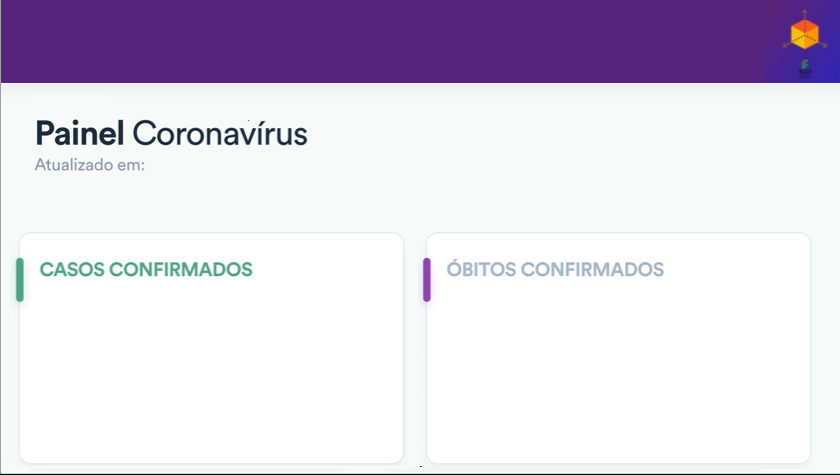
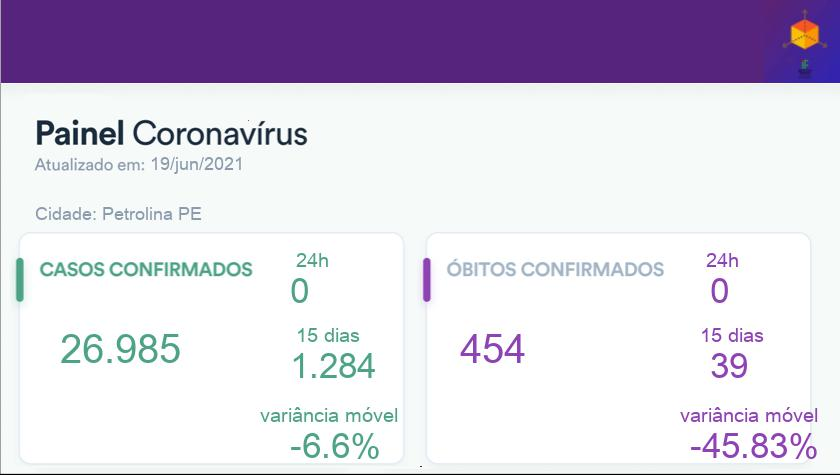
deixando a API arrumadinha

diff --git a/setup.py b/setup.py
@@ -1,0 +1,18 @@
+from setuptools import setup
+from setuptools import find_packages, setup
+
+with open("README.md", "r") as fh:
+    readme = fh.read()
+
+setup(name='covidbr',
+    version='0.0.1401',
+    url='https://github.com/gpftc/covid_br',
+    license='MIT License',
+    author='Reinan Br',
+    long_description=readme,
+    long_description_content_type="text/markdown",
+    author_email='slimchatuba@gmail.com',
+    keywords='covid-19 covid api data science',
+    description=u'Library for data mining about covid-19 in brazilian cities',
+    packages=find_packages(),
+    install_requires=['numpy','matplotlib','pillow','mechanicalsoup','psutil','requests','pandas'],)

diff --git a/covidbr/__init__.py b/covidbr/__init__.py
@@ -1,15 +1,1 @@
-from covidbr.log import logging
-from covidbr.io_api import login_io
-from covidbr.get_data import data_from_city
-from covidbr.plot_data.plotting import plot_media_cases
-from covidbr.plot_data.plotting import plot_media_deaths
-from covidbr.plot_data.painel import create_painel
-
-#from .logger import logger
-
-all = [data_from_city
-       ,login_io,logging,
-       plot_media_cases,
-       plot_media_deaths,
-       create_painel
-]
+from .covidbr_api import *

diff --git a/covidbr/covidbr_api.py b/covidbr/covidbr_api.py
@@ -1,0 +1,15 @@
+from .log import logging
+from .io_api import login_io
+from .get_data import data_from_city
+from .plot_data.plotting import plot_media_cases
+from .plot_data.plotting import plot_media_deaths
+from .plot_data.painel import create_painel
+
+#from .logger import logger
+
+all = [data_from_city
+       ,login_io,logging,
+       plot_media_cases,
+       plot_media_deaths,
+       create_painel
+]

diff --git a/covidbr/get_data/work_data.py b/covidbr/get_data/work_data.py
@@ -43,6 +43,7 @@ class data_from_city:
     
     
     def mining_statistical_data(self,limit_period:int=15):
+        self.date_update = self.date[-1]
         size = limit_period
         #### deaths ####
         ## making string ##

diff --git a/covidbr/log/__init__.py b/covidbr/log/__init__.py
@@ -1,5 +1,6 @@
-from covidbr.log.logging import log
-from covidbr.log.date import date_base
+from .logging import log
+from .date import date_base
+
 
 all = [log,date_base]
 

diff --git a/README.md b/README.md
@@ -1,2 +1,13 @@
-# covid_br
-library for data mining about covid-19 in Brazilian cities
+
+
+<h1 align='center'>CovidBr</h1>
+<p align='center'>
+<img height='400' width='400' src='https://raw.githubusercontent.com/gpftc/covid_br/main/covidbr/img/covidbr_logo.png'>
+<br/>
+<a href="https://github.com/perseu912"><img title="Autor" src="https://img.shields.io/badge/Autor-reinan_br-blue.svg?style=for-the-badge&logo=github"></a>
+<br/>
+<a href='http://dgp.cnpq.br/dgp/espelhogrupo/0180330616769073'><img src='https://shields.io/badge/cnpq-grupo_de_fisica_computacional_ifsertao--pe-blueviolet?logo=appveyor&style=for-the-badge'></a>
+</p>
+<p align='center'> <b>Library for data mining about covid-19 in brazilian cities</b></p>
+
+
